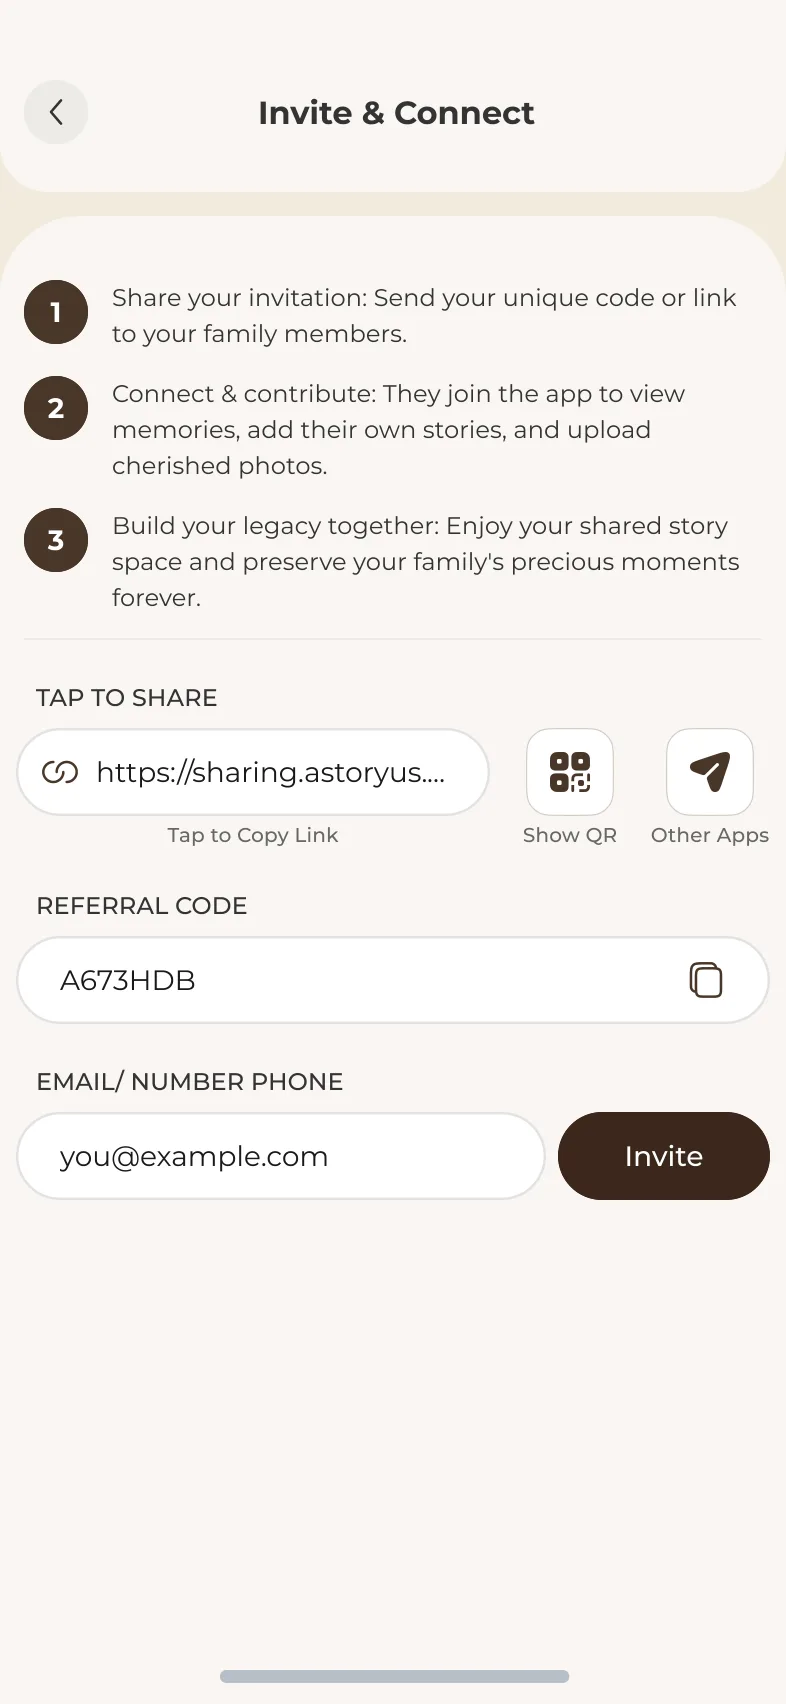
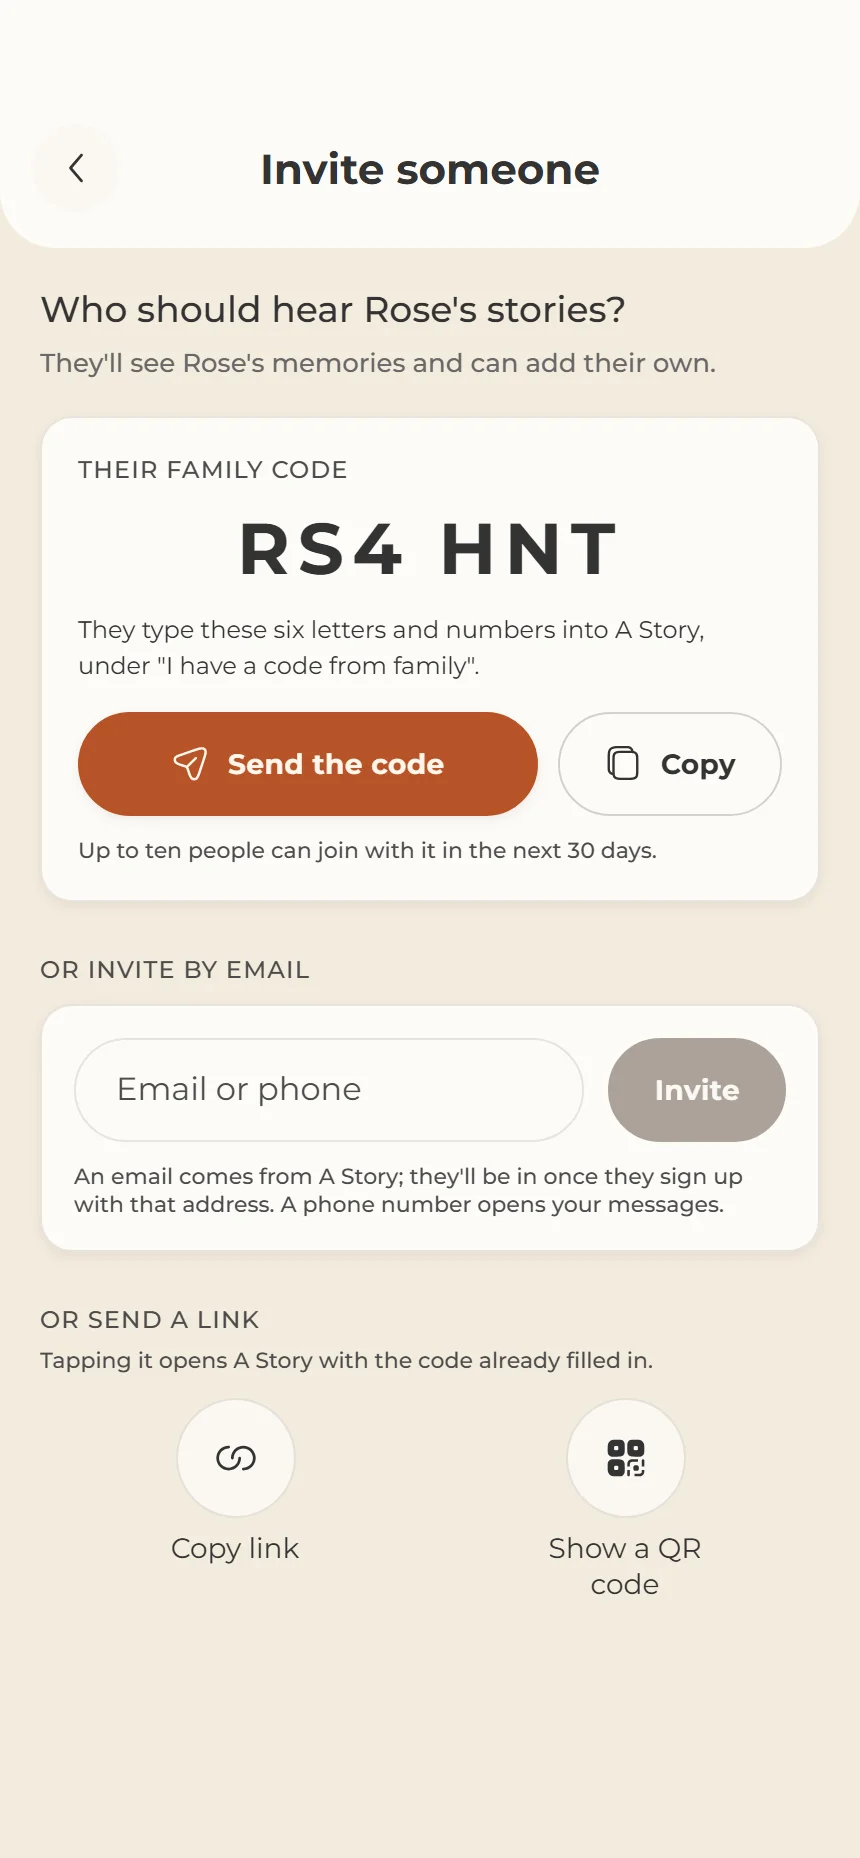
Show the app as it is now: real screens, group calls, the family tree
Every app screen on the site was an export from the founder's Figma file
("Live Conversation", "Summer in Vermont" twice). They are now captured from
the app itself (review-fixes 21f0365, Expo web harness and ?demo=1), with a
band on top where the site's phone frame draws its status bar:
home, archive, memory, qr (share card), people (Invite & share), family
(the tree), plus new person, group-call, invite (family code), talk
(a relative telling about Rose), write (the companion) and import.
player.webp stays from Figma: the voice player is in development. Seven
Figma exports nothing used any more are removed.

- kit/AppTour: a row of phones with a label and a line, a sideways scroll
  on a phone.
- Home, "The easiest way": group call, family tree, person page, family
  code on their real screens, above the eight cards.
- How it works: new "Everyone has a way in" (relative telling, writing
  companion, memoir import, group call); the QR steps now offer the
  six-letter code and link too; the memory page is a still.
- For families: "Call it together" on the group call and "Everyone on the
  tree" replace the kitchen-table home screen and "Everyone in the circle"
  (circles are retired in the app).

diff --git a/src/pages/site/HowItWorks.tsx b/src/pages/site/HowItWorks.tsx
@@ -40,6 +40,7 @@ import { CallScreen, IncomingScreen } from "./app/screens";
 import { ArrowIcon, Invitation, PageOpening, Picture, Print } from "./kit/kit";
 import { useReveals } from "./kit/reveals";
 import MoreWays from "./kit/MoreWays";
+import AppTour, { type TourStop } from "./kit/AppTour";
 import {
   Chapter,
   Eyebrow,
@@ -54,6 +55,36 @@ import {
   grounds,
 } from "./kit/kit.styles";
 import { color, display, font, media } from "../../styles/theme";
+
+/* Everyone else in the family, on the app's own screens (added 2026-10-09;
+   kit/AppTour.tsx says where the screens come from). */
+const WAYS_IN: TourStop[] = [
+  {
+    shot: "talk",
+    k: "Telling about someone",
+    t: "“Rose is here with me.”",
+    d: "A cousin or an aunt can talk with A Story about Rose. The questions turn around for them, and what they add is credited to them.",
+    dark: true,
+  },
+  {
+    shot: "write",
+    k: "Writing it down",
+    t: "A companion, not a blank page.",
+    d: "A question to answer out loud, another if that one doesn’t fit, and tidying that leaves your words yours.",
+  },
+  {
+    shot: "import",
+    k: "Already written",
+    t: "Bring in the memoir.",
+    d: "A Word or text file becomes one memory per chapter, and A Story reads it first, so it never asks again what’s there.",
+  },
+  {
+    shot: "group-call",
+    k: "Together",
+    t: "Call the family together.",
+    d: "Up to four phones on one call. Everyone talks, and A Story keeps what’s said.",
+  },
+];
 
 const love = SCENARIOS.find((s) => s.id === "love")!;
 const QUESTION = "What did the garage smell like when you were fixing things?";
@@ -142,7 +173,7 @@ function StepScreen({ n }: { n: number }) {
         kept={["The card", "The transcript", "Voice · in development"]}
       />
     );
-  if (n === 3) return <AppShot name="memory" scroll />;
+  if (n === 3) return <AppShot name="memory" />;
   return <AppShot name="archive" scroll />;
 }
 
@@ -1006,6 +1037,7 @@ export default function HowItWorks() {
   const scan = useReveals<HTMLElement>();
   const depth = useReveals<HTMLElement>();
   const receives = useReveals<HTMLElement>();
+  const waysIn = useReveals<HTMLElement>();
   const person = useReveals<HTMLElement>();
   const volume = useReveals<HTMLElement>();
 
@@ -1171,15 +1203,15 @@ export default function HowItWorks() {
             <article className="obj" data-rise>
               <div className="stage">
                 <Phone width="min(300px, 86%)">
-                  <AppShot name="memory" scroll />
+                  <AppShot name="memory" />
                 </Phone>
               </div>
               <small>
                 <i aria-hidden="true">1</i>The card
               </small>
               <p className="cap">
-                A memory page to read - the date, the chapter, the photographs,
-                and who told it.
+                A memory page to read - the date, the chapter, the voice, and
+                who told it.
               </p>
             </article>
             <article className="obj" data-rise>
@@ -1253,6 +1285,24 @@ export default function HowItWorks() {
         </Frame>
       </Receives>
 
+      <Chapter ref={waysIn} $ground="paper" aria-labelledby="ways-in-title">
+        <Frame>
+          <SplitHead>
+            <div>
+              <Eyebrow>Everyone else</Eyebrow>
+              <Statement id="ways-in-title" $size="lg" data-lines>
+                Not only the one being asked. <em>Everyone</em> has a way in.
+              </Statement>
+            </div>
+            <Lead data-rise>
+              The people who know her stories tell their part, the one who writes gets help, and whoever typed it up
+              years ago doesn’t type it twice.
+            </Lead>
+          </SplitHead>
+          <AppTour stops={WAYS_IN} />
+        </Frame>
+      </Chapter>
+
       <Scan ref={scan} $ground="ivory" aria-labelledby="scan-title">
         <Frame className="scan">
           <div>
@@ -1260,8 +1310,8 @@ export default function HowItWorks() {
               One scan, and they’re <em>in the story.</em>
             </Statement>
             <ol className="steps3" data-rise>
-              <li>Open your family’s code in the app.</li>
-              <li>They scan it with their phone camera.</li>
+              <li>Open Invite in the app: a six-letter family code, a link, or a QR code.</li>
+              <li>They type the code, tap the link, or scan it with their camera.</li>
               <li>They land on your family’s story - and can add their own.</li>
             </ol>
           </div>

diff --git a/src/pages/site/kit/AppTour.tsx b/src/pages/site/kit/AppTour.tsx
@@ -1,0 +1,93 @@
+/**
+ * A row of real app screens, each with a short label and one line. Added
+ * 2026-10-09 to show what the app does now — group calls, the family tree,
+ * a person's page, family codes, a relative telling their part, the writing
+ * companion, memoir import — on the screens themselves rather than in prose.
+ *
+ * The screens in public/app are captured from the app (review-fixes
+ * 21f0365, Expo web, the ?screenshot=1 harness and ?demo=1), 860px wide
+ * with a band on top where the phone frame draws its status bar. Recapture
+ * them when the app's screens change.
+ *
+ * Desktop shows the row; on a phone it becomes a sideways scroll, so four
+ * phones never stack into four screens of scrolling.
+ */
+import styled from "styled-components";
+import { AppShot, Phone } from "../app/Phone";
+import { color, display, font, media } from "../../../styles/theme";
+
+export type TourStop = {
+  /** public/app/<shot>.webp */
+  shot: string;
+  k: string;
+  t: string;
+  d: string;
+  /** The screen's top is dark, so the status bar is drawn light. */
+  dark?: boolean;
+  scroll?: boolean;
+};
+
+const Row = styled.ul<{ $n: number }>`
+  display: grid;
+  grid-template-columns: repeat(${({ $n }) => $n}, minmax(0, 1fr));
+  gap: clamp(20px, 2.6vw, 40px);
+  margin: clamp(40px, 5vw, 72px) 0 0;
+  padding: 0;
+  list-style: none;
+  li {
+    display: grid;
+    align-content: start;
+    justify-items: center;
+    text-align: center;
+  }
+  .k {
+    margin-top: 22px;
+    font: 600 11px/1.3 ${font.body};
+    letter-spacing: 0.2em;
+    text-transform: uppercase;
+    color: var(--label, ${color.accentText});
+  }
+  h3 {
+    margin-top: 10px;
+    font: 400 ${display.sm} / 1.2 ${font.display};
+    letter-spacing: -0.012em;
+    color: var(--ink, ${color.primary});
+    text-wrap: balance;
+  }
+  p.d {
+    margin-top: 8px;
+    max-width: 30ch;
+    font: 400 15px/1.55 ${font.body};
+    color: var(--muted, ${color.bodyMuted});
+  }
+  ${media.md} {
+    display: flex;
+    gap: 20px;
+    margin-inline: calc(-1 * var(--page-gutter, 16px));
+    padding: 0 var(--page-gutter, 16px) 8px;
+    overflow-x: auto;
+    scroll-snap-type: x mandatory;
+    scrollbar-width: none;
+    li {
+      flex: 0 0 min(250px, 68vw);
+      scroll-snap-align: center;
+    }
+  }
+`;
+
+export default function AppTour({ stops }: { stops: TourStop[] }) {
+  return (
+    <Row $n={stops.length}>
+      {stops.map((s) => (
+        <li key={s.shot} data-rise>
+          <Phone width="min(250px, 100%)" lightStatus={s.dark}>
+            <AppShot name={s.shot} scroll={s.scroll} />
+          </Phone>
+          <p className="k">{s.k}</p>
+          <h3>{s.t}</h3>
+          <p className="d">{s.d}</p>
+        </li>
+      ))}
+    </Row>
+  );
+}

diff --git a/src/pages/site/home/EasiestWay.tsx b/src/pages/site/home/EasiestWay.tsx
@@ -27,6 +27,7 @@
  */
 import styled from "styled-components";
 import { useReveals } from "../kit/reveals";
+import AppTour, { type TourStop } from "../kit/AppTour";
 import { Chapter, Eyebrow, Frame, Lead, Statement, TextLink } from "../kit/kit.styles";
 import { color, display, font, media } from "../../../styles/theme";
 
@@ -165,6 +166,36 @@ const WAYS: Way[] = [
   },
 ];
 
+/* The four newest, on the app's own screens (kit/AppTour.tsx). */
+const TOUR: TourStop[] = [
+  {
+    shot: "group-call",
+    k: "Group calls",
+    t: "Call the family together.",
+    d: "Up to four phones at once. Everyone talks; A Story listens and turns what’s said into memories.",
+  },
+  {
+    shot: "family",
+    k: "The family tree",
+    t: "Everyone she’d talk about.",
+    d: "Parents, partners and children on one tree. Tap a name to add or fix it.",
+  },
+  {
+    shot: "person",
+    k: "A page for each person",
+    t: "A life at a glance.",
+    d: "Born, grew up, schools, work - built from what the family has written down.",
+    dark: true,
+    scroll: true,
+  },
+  {
+    shot: "invite",
+    k: "Family codes",
+    t: "Six letters, and they’re in.",
+    d: "Send the code by text. Up to ten people can join with it.",
+  },
+];
+
 export default function EasiestWay() {
   const reveal = useReveals<HTMLElement>();
   return (
@@ -182,6 +213,7 @@ export default function EasiestWay() {
             in for each of them - and none of them has to be good with phones.
           </Lead>
         </div>
+        <AppTour stops={TOUR} />
         <ul className="grid">
           {WAYS.map((w) => (
             <li key={w.t} data-rise>

diff --git a/src/pages/site/Families.tsx b/src/pages/site/Families.tsx
@@ -264,22 +264,22 @@ const Occasions = styled(Chapter)`
 
 const TOGETHER = [
   {
-    shot: "home",
+    shot: "group-call",
     scroll: false,
-    title: "Ask it together.",
-    line: "Tap Live Conversation at the kitchen table and let the whole room listen in.",
+    title: "Call it together.",
+    line: "Up to four phones on one call - the grandkids in three cities, Grandma at home. A Story keeps what’s said.",
   },
   {
     shot: "memory",
-    scroll: true,
+    scroll: false,
     title: "Listen back together.",
     line: "Every memory keeps the words, the photographs and who told it.",
   },
   {
     shot: "family",
     scroll: false,
-    title: "Everyone in the circle.",
-    line: "Add the people who were there - grandparents, cousins, the oldest friend.",
+    title: "Everyone on the tree.",
+    line: "Parents, partners, children and cousins on one family tree - and anyone can join with a six-letter code.",
   },
 ];
 

diff --git a/src/pages/site/app/Phone.tsx b/src/pages/site/app/Phone.tsx
@@ -231,9 +231,11 @@ const ShotBand = styled.span`
 `;
 
 /**
- * A screen exported from the founder's Figma file (public/app, rendered from
- * "APP A Story Us 2026 for Web.pdf"). Real screens where they exist; the
- * HTML screens in screens.tsx are for moments the file doesn't draw.
+ * A screen of the app (public/app). Since 2026-10-09 these are captured from
+ * the app itself (review-fixes 21f0365, Expo web) - see kit/AppTour.tsx;
+ * only player.webp is still from the founder's Figma file, because the voice
+ * player is in development. The HTML screens in screens.tsx are for moments
+ * no capture shows (the incoming call, a call in progress).
  */
 export function AppShot({
   name,
